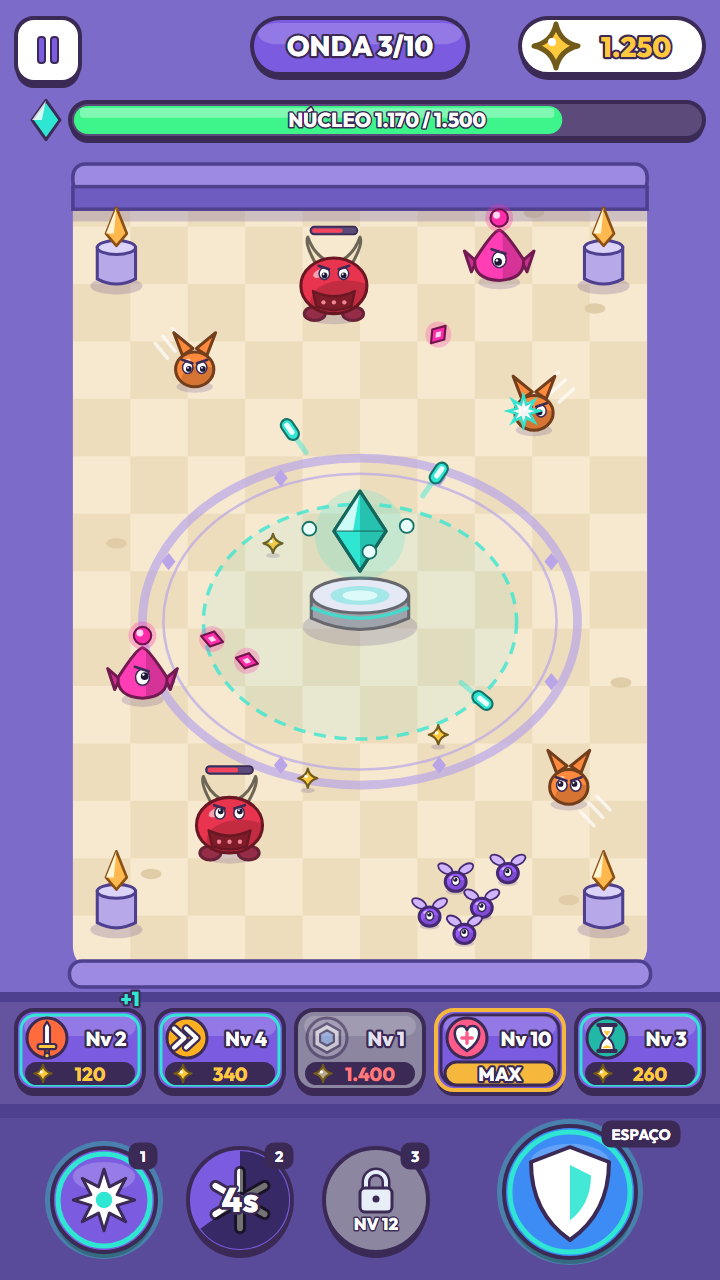
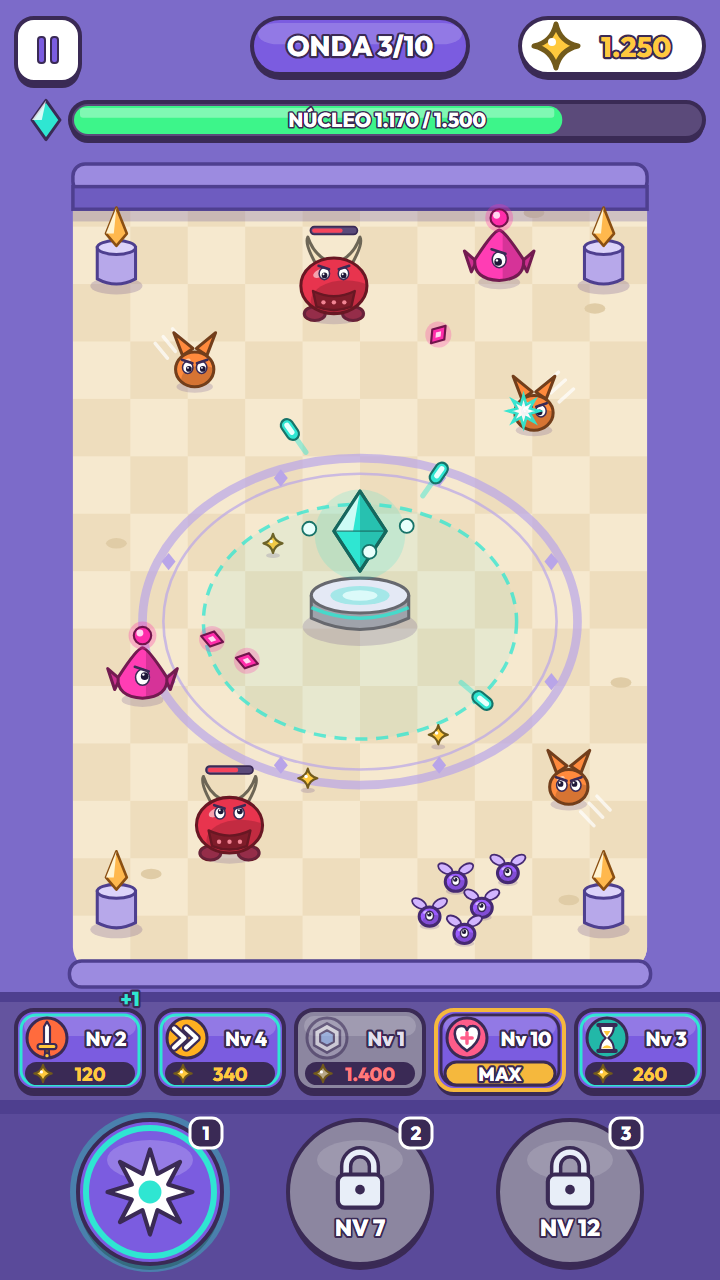
Mockup A fiel à demo: 3 slots de skill maiores e fileira de upgrades

Changed region(s): [[0.0611, 0.8438, 0.6111, 1.0], [0.6722, 0.875, 0.9472, 1.0]]

diff --git a/docs/arte.md b/docs/arte.md
@@ -18,7 +18,7 @@
 | Clima | dia, chão de pedra clara (creme) com runas lilás | crepúsculo, ilha de pedra índigo flutuando no vazio, runas douradas |
 | Contorno | **colorido** (tom escuro da própria cor), 3–4 px | **único escuro** `#1E1838`, 5 px |
 | Sombreamento | suave (sombra a ~45% de opacidade) | **cel duro** (sombra chapada 100%) + brilho forte |
-| HUD | bandeja inferior, 3 skills + defensiva grande à direita | painel superior com moldura dourada, defensiva grande no centro, barra do chefe |
+| HUD | bandeja inferior: fileira de 5 upgrades + 3 slots de skill (1 ativo, 2 e 3 bloqueados), Ø ≥ 144 px (demo) | painel superior com moldura dourada, defensiva grande no centro, barra do chefe |
 | Leitura | mais "casual/família", contraste de inimigos muito alto | mais "épico/mágico", o ciano do jogador brilha mais |
 
 ## 2. Paleta
@@ -82,7 +82,7 @@ Pedestal cilíndrico neutro (`vessel`) com aro ciano + **cristal losango ciano f
 ## 6. HUD e molduras por raridade (guia para a T-145)
 
 - **Botões encorpados:** forma arredondada, contorno escuro de 4 px, "sombra de base" sólida deslocada 4–6 px para baixo, faixa de brilho branca a ~18% no topo.
-- **Skill:** botão redondo Ø ≥ 100 px (defensiva ≥ 130 px). Pronta = anel ciano + halo; recarga = setor escuro a 55% + segundos; bloqueada = cinza com cadeado e o nível de desbloqueio. Badge da tecla (`1`, `2`, `3`, `ESPAÇO`) no canto superior.
+- **Skill (demo M1, decisão 28):** bandeja com **3 slots**, sem botão defensivo/`ESPAÇO`. Botão redondo **Ø ≥ 144 px**, centros em x = 150 / 360 / 570 (folga ~66 px), cy ≈ 1192 em 720×1280. Pronta = anel ciano + halo; recarga = setor escuro a 55% + segundos; bloqueada = cinza com cadeado e o nível de desbloqueio (slot 2 "NV 7", slot 3 "NV 12"). Badge da tecla (`1`, `2`, `3`) no canto superior direito.
 - **Fileira de upgrades (decisão 35):** faixa própria no topo da bandeja, logo acima das skills; 5 botões de 128×80 px (gap 12, margem 16), na ordem Atk power, Atk spd, Defesa, Vida máxima, Cooldown. Cada botão: ícone num círculo colorido (espada laranja, chevrons âmbar, placa hexagonal azul, coração rosa com "+", ampulheta verde-água), "Nv X" e pílula escura com a estrela de Partículas + custo. Estados: comprável = anel ciano interno e custo dourado (toque mostra "+1" ciano); sem Partículas = cinza, ícone a 55% e custo vermelho-claro; máximo = moldura dourada e pílula dourada "MAX". A arena encolhe (87%) para caber, com o núcleo ainda no centro. Mockup: [`mockup_cartoon_a_upgrades.png`](../assets/backgrounds/mockup_cartoon_a_upgrades.png).
 - **Texto:** fonte arredondada pesada (os mockups usam Outfit 800, OFL, já no projeto) com contorno escuro (paint-order stroke).
 - **Molduras por raridade** (cores do `ui.md`): moldura grossa da cor + contorno escuro + fundo do card num tom mais escuro da mesma cor; quanto mais rara, mais ornamento.

diff --git a/docs/briefings/BRF-025_AG08_mockup-fiel-demo.md b/docs/briefings/BRF-025_AG08_mockup-fiel-demo.md
@@ -1,0 +1,9 @@
+# BRF-025 — AG08 — Mockup A fiel à demo
+**Objetivo:** ajustar `assets/backgrounds/mockup_cartoon_a_upgrades.*` (BRF-024) para refletir exatamente a demo do M1 (decisões 28 e 35).
+**Mudanças:**
+- Bandeja de skills com **3 slots**: slot 1 ativo (skill de área, pronta, ícone atual), slots 2 e 3 **bloqueados** com cadeado e o nível de desbloqueio (slot 2 = "NV 7", slot 3 = "NV 12"). **Remova** o botão de escudo / 4º slot "ESPAÇO" e o cooldown "4s" do slot 2.
+- **Botões de skill maiores e mais espaçados**: Ø de 144 px ou mais (hoje 128), centros bem distribuídos (ex.: x = 150 / 360 / 570) com folga clara entre eles; o número do slot continua visível.
+- Mantenha a fileira de 5 upgrades e o resto do HUD; ajuste a altura da bandeja e da arena só o necessário, sem cobrir inimigos nem o núcleo.
+**Entrega:** sobrescreva `mockup_cartoon_a_upgrades.svg` e `.png` (720×1280, mesmo método de render; o gerador está em `C:\Users\marca\AppData\Local\Temp\claude\C--Repos-projectanima\2d0298e1-bff0-492f-8129-2d89e7b24add\scratchpad\gen_upgrades.py`). Confira o PNG visualmente. Atualize a seção HUD de `docs/arte.md` (3 slots, Ø das skills) e a linha em `assets/LICENSES.md` se preciso.
+**Arquivos permitidos:** `assets/backgrounds/`, `assets/LICENSES.md`, `docs/arte.md` (só HUD).
+**Entrega ao AG00:** no máximo 10 linhas.

diff --git a/assets/LICENSES.md b/assets/LICENSES.md
@@ -8,5 +8,5 @@
 | `assets/backgrounds/mockup_arena_b.svg` | Original, SVG gerado por script (BRF-022) | AG08 (Project: Anima) | Próprio do projeto |
 | `assets/backgrounds/mockup_cartoon_a.svg` / `.png` | Original, SVG gerado por script e renderizado no Chrome headless (BRF-023) | AG08 (Project: Anima) | Próprio do projeto |
 | `assets/backgrounds/mockup_cartoon_b.svg` / `.png` | Original, SVG gerado por script e renderizado no Chrome headless (BRF-023) | AG08 (Project: Anima) | Próprio do projeto |
-| `assets/backgrounds/mockup_cartoon_a_upgrades.svg` / `.png` | Original, derivado do mockup A por script (arena a 87% + fileira de upgrades), renderizado no Chrome headless (BRF-024) | AG08 (Project: Anima) | Próprio do projeto |
+| `assets/backgrounds/mockup_cartoon_a_upgrades.svg` / `.png` | Original, derivado do mockup A por script (arena a 87% + fileira de upgrades; bandeja de 3 slots no BRF-025), renderizado no Chrome headless (BRF-024/025) | AG08 (Project: Anima) | Próprio do projeto |
 | `assets/fonts/Outfit-Variable.ttf` | Google Fonts (*Outfit*) | The Outfit Project Authors | SIL OFL 1.1 (`assets/fonts/OFL.txt`) |
